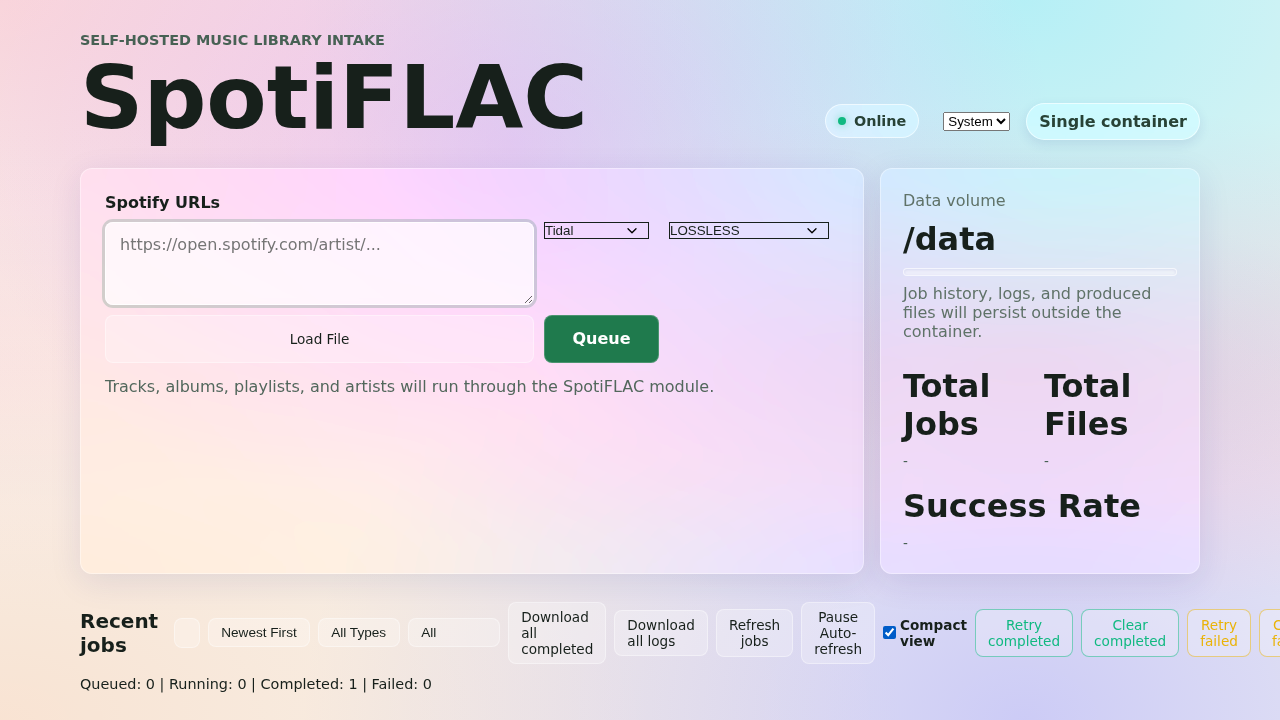
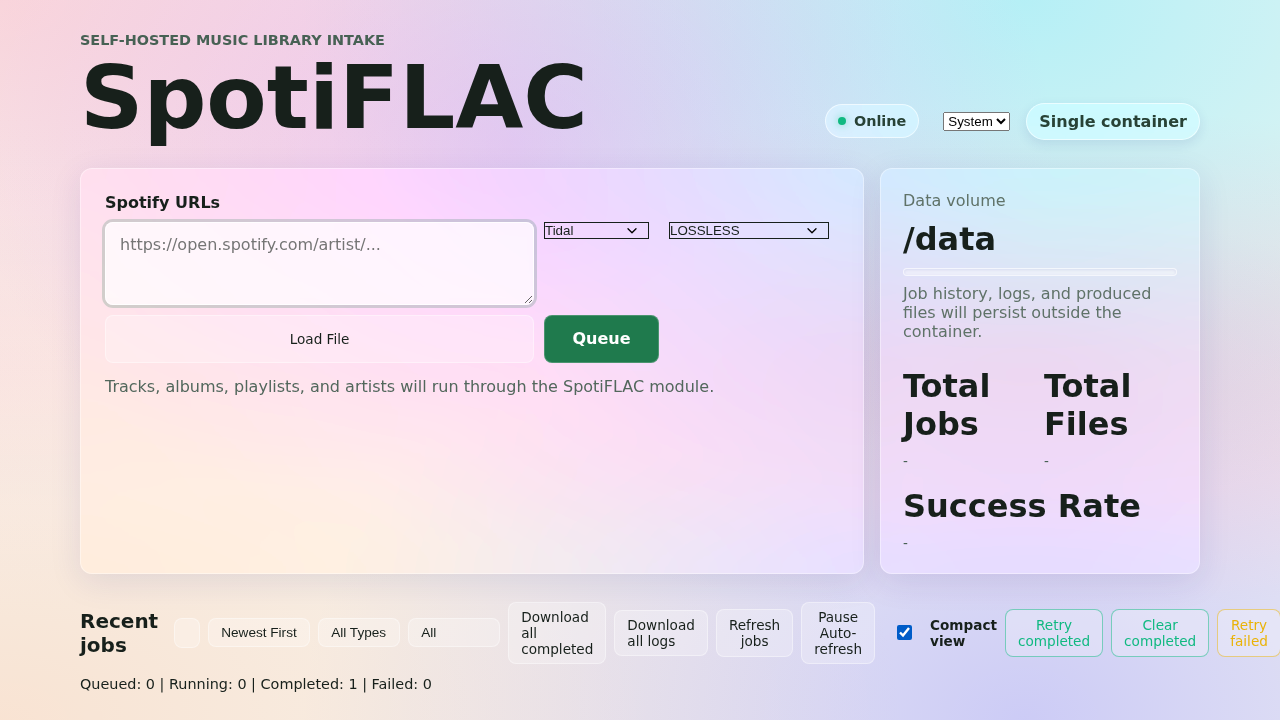
Merge main to resolve PR conflicts
Context: PR #530 had merge conflicts due to recent changes in main regarding theme toggle components and package dependencies.
Change: Fetched PR branch, merged main, and manually resolved conflicts in app.js, app.test.js, pyproject.toml, and status.spec.js.
Rationale: To cleanly apply the health-timeout feature while retaining structural updates from main.
Impact/Risk: Low risk. Frontend tests pass successfully ensuring both features are intact.
Tests: Ran full frontend Vitest and Playwright test suites; ran full python Ruff and Pytest suites. All checks passed.

Changed region(s): [[0.6875, 0.8556, 1.0, 0.9167]]

diff --git a/website/tests/status.spec.js b/website/tests/status.spec.js
@@ -79,4 +79,40 @@ test.describe("Connection Status Indicator", () => {
     await expect(statusContainer).toHaveClass(/status-offline/);
     await expect(statusContainer.locator(".status-text")).toHaveText("Offline");
   });
+  test("shows offline status when health endpoint times out", async ({ page }) => {
+    // We expect the frontend to time out after 5 seconds, so we need a slightly longer timeout for the test to wait for the UI update.
+    test.setTimeout(15000);
+    await page.route("**/api/health", () => {
+      // Do not fulfill, simulate a hang
+    });
+
+    await page.route("**/api/jobs", (route) => {
+      route.fulfill({
+        status: 200,
+        contentType: "application/json",
+        body: JSON.stringify([]),
+      });
+    });
+    await page.route("**/api/system/storage", (route) => {
+      route.fulfill({
+        status: 200,
+        contentType: "application/json",
+        body: JSON.stringify({ total: 100, used: 10, free: 90 }),
+      });
+    });
+    await page.route("**/api/stats", (route) => {
+      route.fulfill({
+        status: 200,
+        contentType: "application/json",
+        body: JSON.stringify({ total_jobs: 0, total_files: 0, success_rate: 0 }),
+      });
+    });
+
+    await page.goto("/");
+
+    const statusContainer = page.locator("#connection-status");
+    await expect(statusContainer).toBeVisible();
+    await expect(statusContainer).toHaveClass(/status-offline/, { timeout: 10000 });
+    await expect(statusContainer.locator(".status-text")).toHaveText("Offline", { timeout: 10000 });
+  });
 });

diff --git a/website/src/app.js b/website/src/app.js
@@ -458,8 +458,12 @@ export function renderApp(root) {
     const statusText = root.querySelector(".status-text");
     if (!statusContainer || !statusText) return;
 
+    const controller = new AbortController();
+    const timeoutId = setTimeout(() => controller.abort(), 5000);
+
     try {
-      const response = await fetch("/api/health");
+      const response = await fetch("/api/health", { signal: controller.signal });
+      clearTimeout(timeoutId);
       if (response.ok) {
         statusContainer.classList.remove("status-offline");
         statusContainer.classList.add("status-online");
@@ -1406,6 +1410,7 @@ export function renderApp(root) {
         retrySelectedBtn.classList.add("hidden-btn");
         retrySelectedBtn.disabled = true;
       }
+
     }
 
     const selectAllCheckbox = root.querySelector("#select-all-jobs");
@@ -1478,6 +1483,7 @@ export function renderApp(root) {
       }
     });
   }
+
 
   if (deleteSelectedBtn) {
     deleteSelectedBtn.addEventListener("click", async () => {

diff --git a/website/src/app.test.js b/website/src/app.test.js
@@ -414,6 +414,7 @@ describe("renderApp", () => {
     const themeSelector = document.getElementById("theme-selector");
     themeSelector.value = "dark";
     themeSelector.dispatchEvent(new global.window.Event("change"));
+
     expect(document.documentElement.classList.contains("dark")).toBe(true);
     expect(global.localStorage.setItem).toHaveBeenCalledWith("theme", "dark");
   });

diff --git a/docs/backlog/open/044_add_health_timeout.md b/docs/backlog/open/044_add_health_timeout.md
@@ -1,0 +1,5 @@
+# Add Health Check Timeout
+
+The UI currently polls `/api/health` to determine connection status. However, if the backend hangs indefinitely, the UI fetch request will wait for the browser's default timeout (which can be very long), causing the UI to falsely appear online.
+
+We should implement a timeout (e.g. 5 seconds) for the health check fetch request in the UI so that a hung backend is quickly reported as offline.
